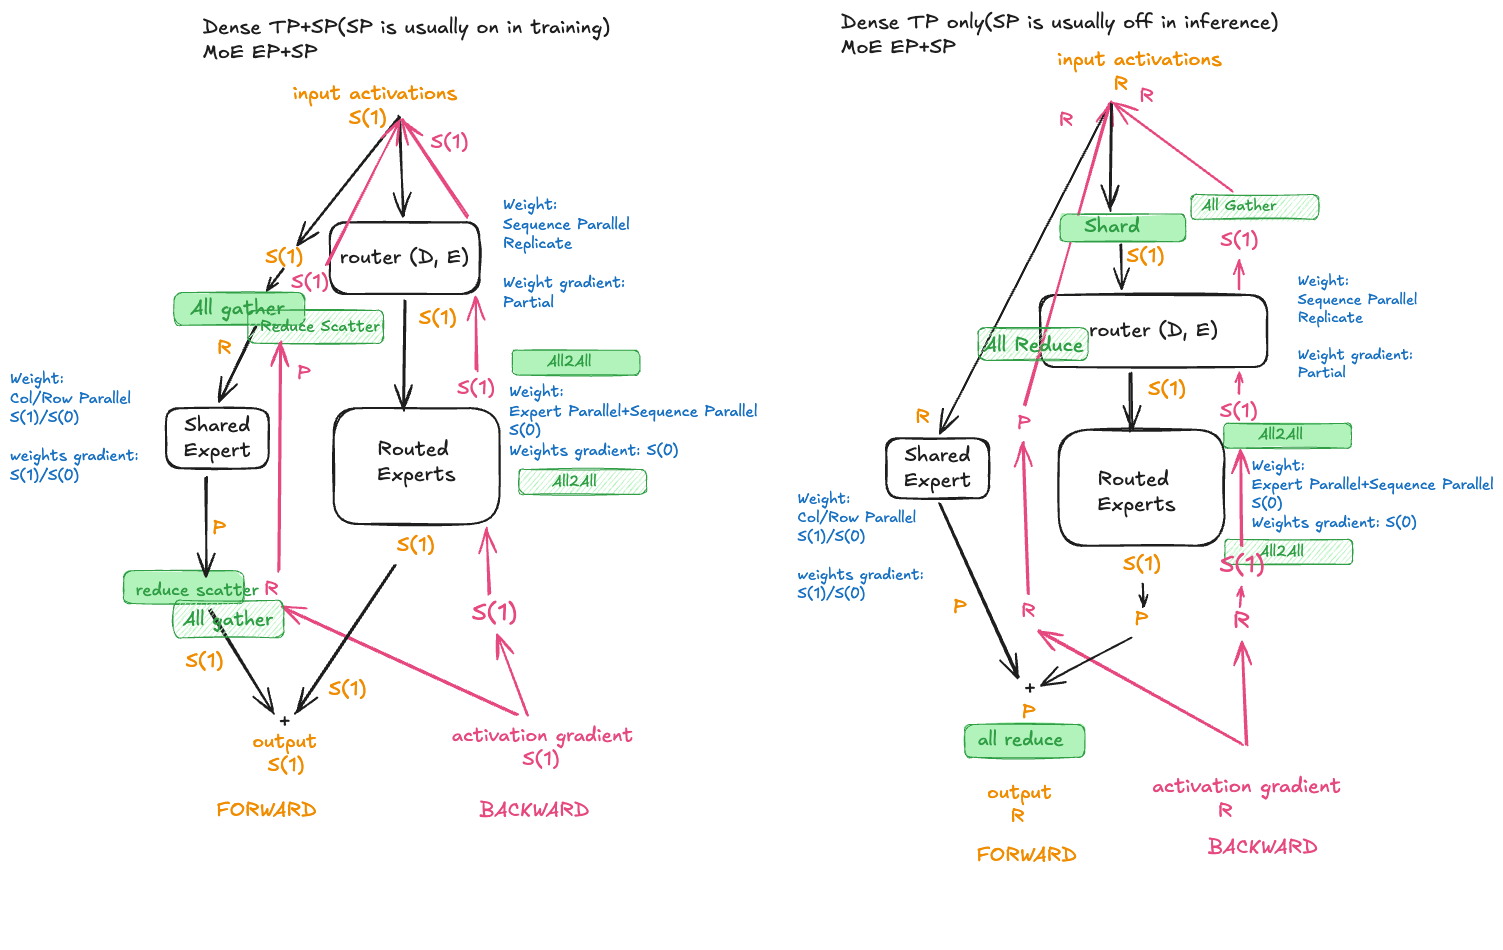
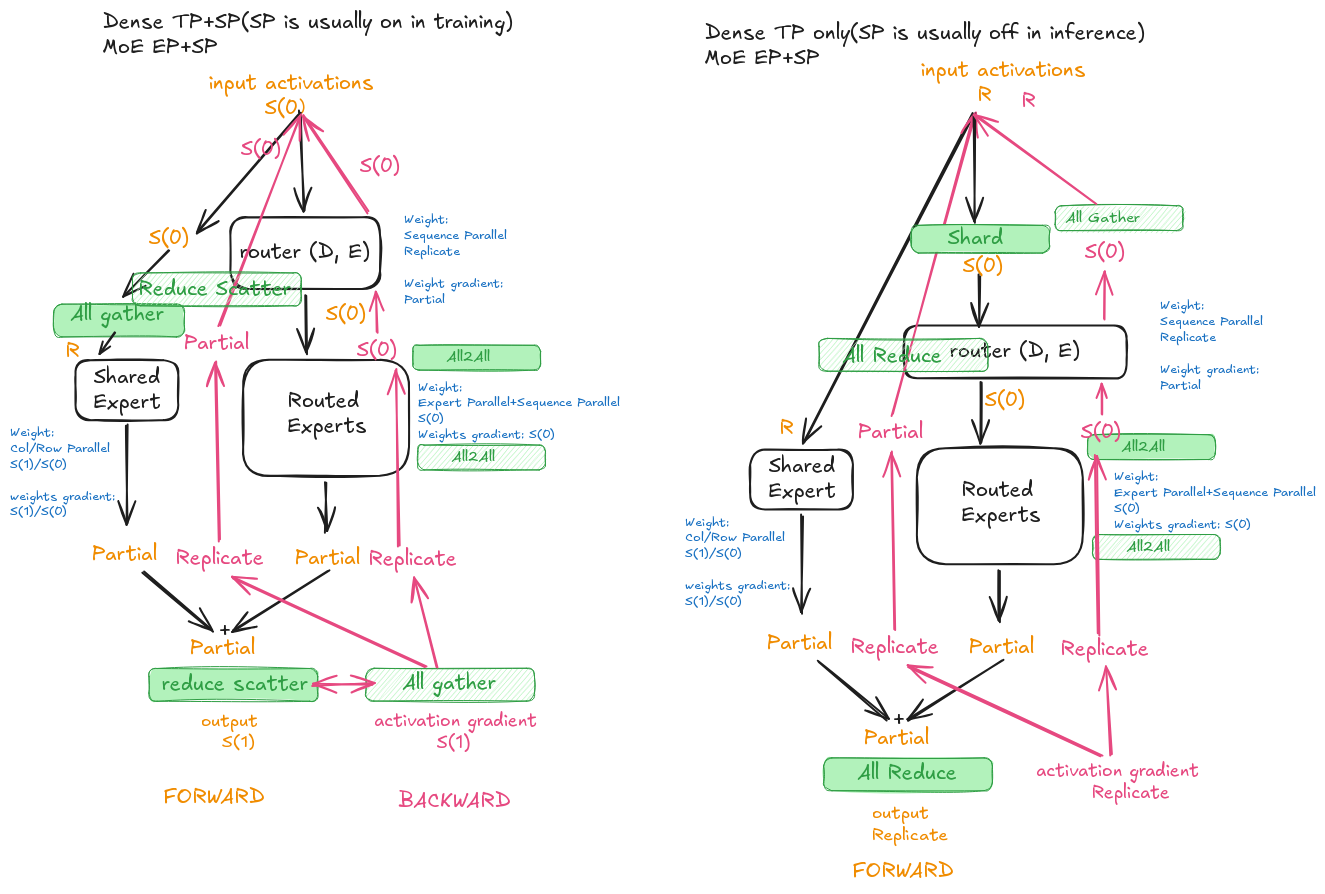
enfore TP2EP

Changed region(s): [[0.526, 0.0, 0.9902, 0.9966], [0.0, 0.0906, 0.4951, 0.906], [0.0619, 0.0, 0.4023, 0.0604]]

diff --git a/torchtitan/models/common/MOE_SHARDING.md b/torchtitan/models/common/MOE_SHARDING.md
@@ -5,11 +5,13 @@ Config-based sharding for MoE submodules, implemented in
 
 ## Overview
 
-The diagram below shows the DTensor placement flow through the MoE layer for
+The diagram below shows the MoE layer's SPMD layout flow using `spmd_types` for
 the two supported expert-parallel configurations (SP on/off). Without EP, the
 routed experts are replicated across the dense TP axis instead of using ETP.
 
 ![MoE Sharding](../../../assets/images/moe_sharding.png)
+
+[Excalidraw source](https://excalidraw.com/#json=kHCMMpLUWf7B4Nx0ZndD5,IVYsWt7pnseQuK8wCsWWHw)
 
 ## Configurations
 
